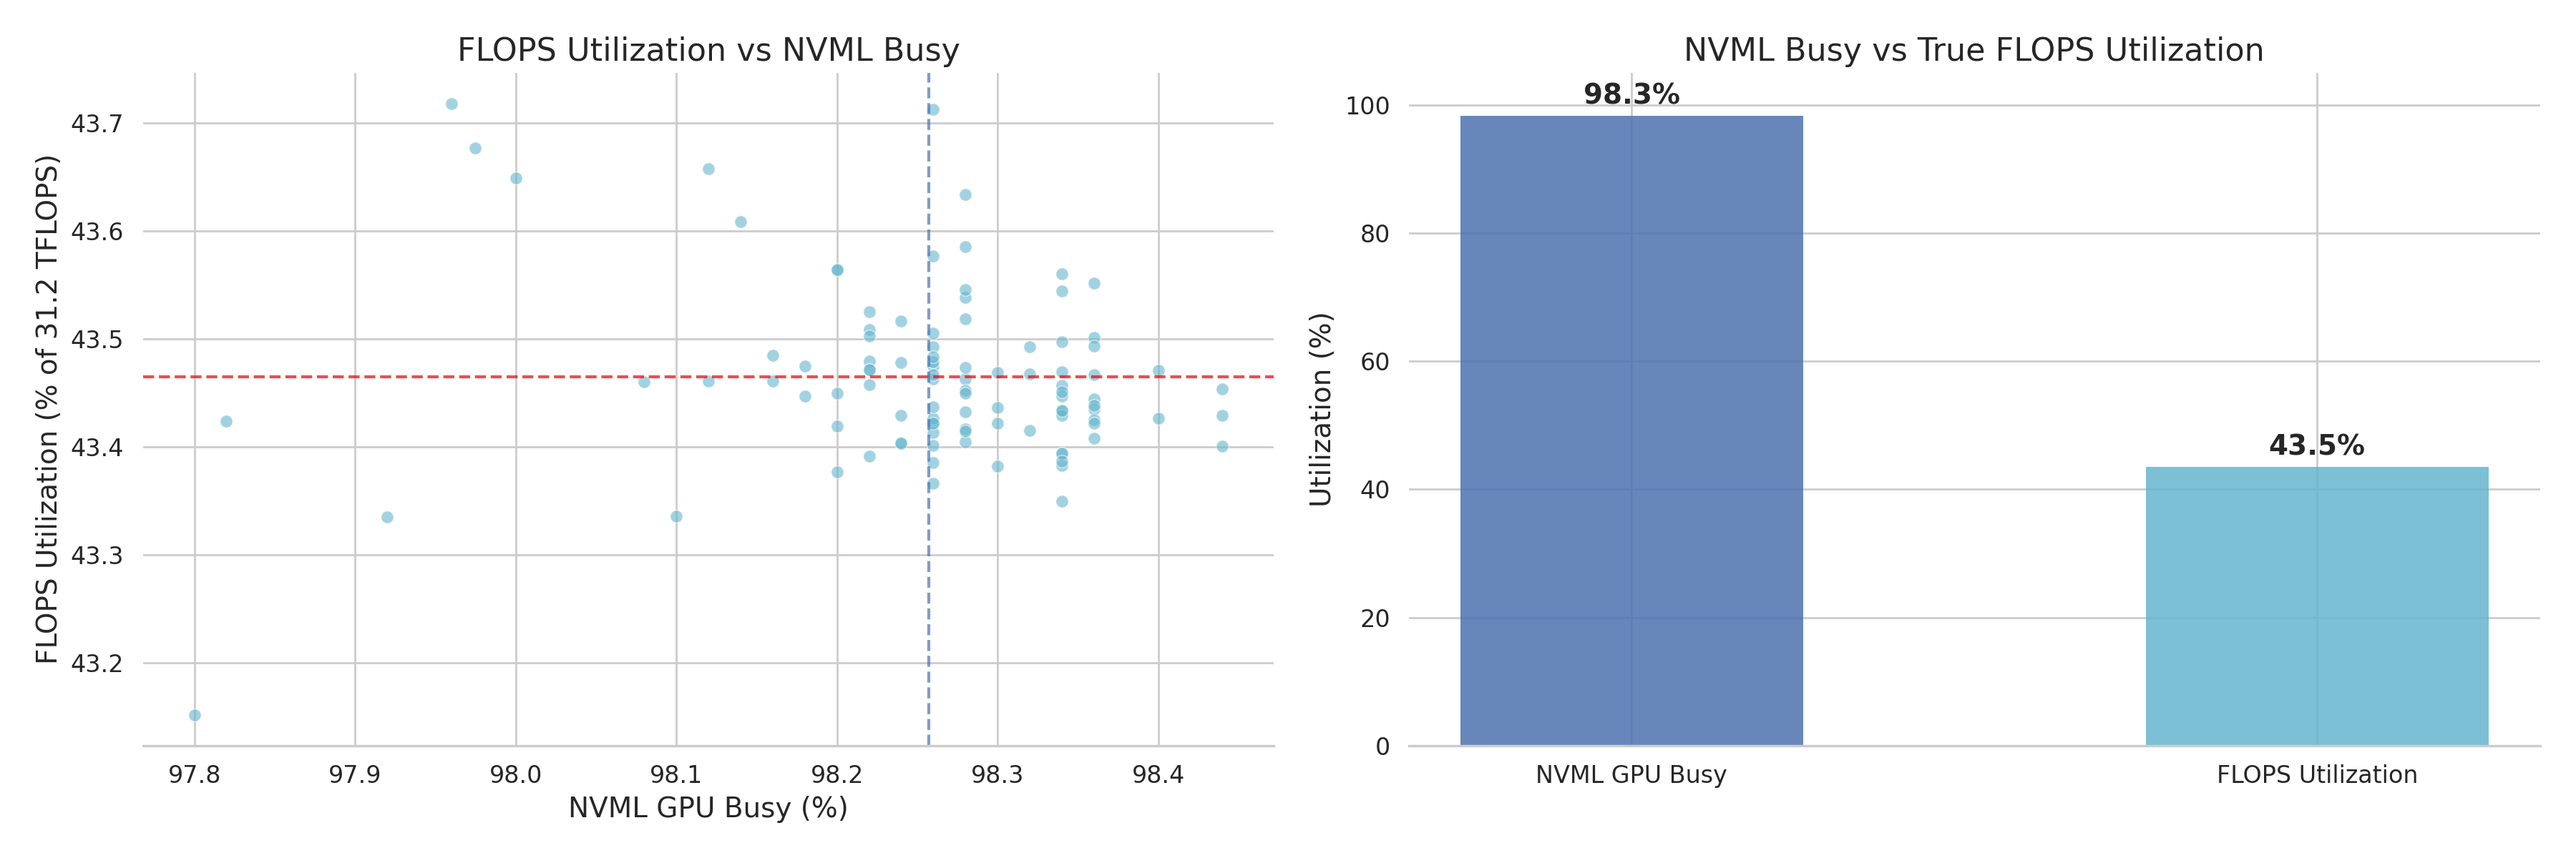
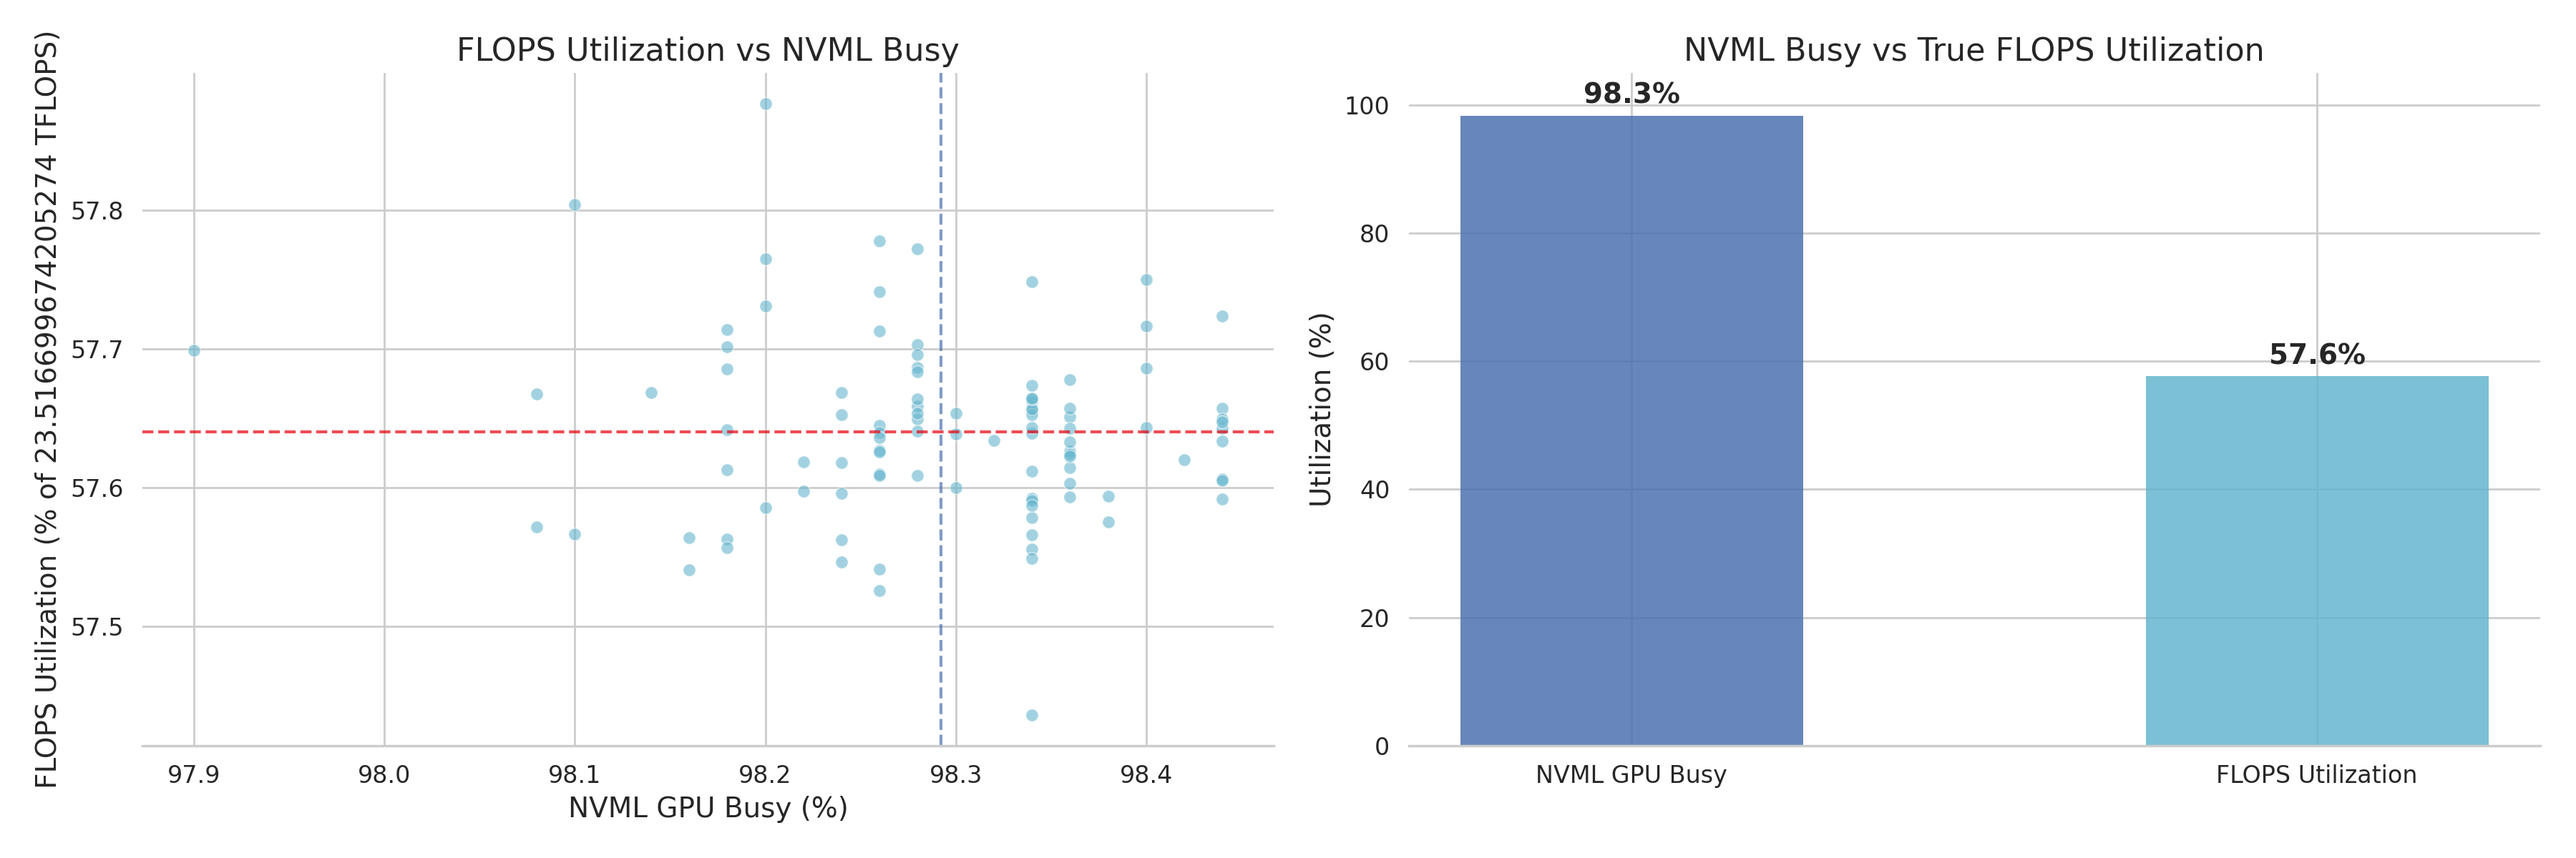
Deployed c6495fe with MkDocs version: 1.6.1

diff --git a/reports/enformer_gpu_profiling/index.html b/reports/enformer_gpu_profiling/index.html
@@ -648,6 +648,34 @@
     </span>
   </a>
   
+    <nav class="md-nav" aria-label="Peak Hardware TFLOPS">
+      <ul class="md-nav__list">
+        
+          <li class="md-nav__item">
+  <a href="#method-1-theoretical-from-cuda-device-properties" class="md-nav__link">
+    <span class="md-ellipsis">
+      
+        Method 1 — Theoretical (from CUDA device properties)
+      
+    </span>
+  </a>
+  
+</li>
+        
+          <li class="md-nav__item">
+  <a href="#method-2-empirical-gemm-benchmark" class="md-nav__link">
+    <span class="md-ellipsis">
+      
+        Method 2 — Empirical GEMM benchmark
+      
+    </span>
+  </a>
+  
+</li>
+        
+      </ul>
+    </nav>
+  
 </li>
         
           <li class="md-nav__item">
@@ -1036,6 +1064,34 @@
     </span>
   </a>
   
+    <nav class="md-nav" aria-label="Peak Hardware TFLOPS">
+      <ul class="md-nav__list">
+        
+          <li class="md-nav__item">
+  <a href="#method-1-theoretical-from-cuda-device-properties" class="md-nav__link">
+    <span class="md-ellipsis">
+      
+        Method 1 — Theoretical (from CUDA device properties)
+      
+    </span>
+  </a>
+  
+</li>
+        
+          <li class="md-nav__item">
+  <a href="#method-2-empirical-gemm-benchmark" class="md-nav__link">
+    <span class="md-ellipsis">
+      
+        Method 2 — Empirical GEMM benchmark
+      
+    </span>
+  </a>
+  
+</li>
+        
+      </ul>
+    </nav>
+  
 </li>
         
           <li class="md-nav__item">
@@ -1321,72 +1377,123 @@ matrix multiplications, convolutions, reductions).  For Enformer:</p>
 <p>This is more accurate than estimation heuristics (e.g. <code>2 × MACs</code>) because it
 counts every operator, not just matmuls.</p>
 <h3 id="peak-hardware-tflops">Peak Hardware TFLOPS</h3>
-<p>The script maintains a lookup table of datasheet peak throughput for common
-NVIDIA GPUs across three precision modes:</p>
+<p>Rather than relying on a hardcoded lookup table of datasheet values, we
+<strong>estimate peak TFLOPS programmatically</strong> using two complementary methods:</p>
+<h4 id="method-1-theoretical-from-cuda-device-properties">Method 1 — Theoretical (from CUDA device properties)</h4>
+<p>Every CUDA device exposes its SM count, compute capability, and boost clock
+via <code>torch.cuda.get_device_properties()</code>.  Combined with a small table mapping
+compute capability → FP32 cores per SM, we compute:</p>
+<div class="arithmatex">\[
+\text{Theoretical Peak} = \frac{\text{SMs} \times \text{cores/SM} \times 2_{\text{FMA}} \times \text{clock\_Hz}}{10^{12}}
+\]</div>
+<p>The <code>×2</code> factor accounts for fused multiply-add (each FMA = 2 FLOPs per clock).</p>
 <table>
 <thead>
 <tr>
-<th>GPU</th>
-<th style="text-align: center;">FP32 (TFLOPS)</th>
-<th style="text-align: center;">TF32 (TFLOPS)</th>
-<th style="text-align: center;">FP16/BF16 (TFLOPS)</th>
+<th style="text-align: center;">Compute Capability</th>
+<th>Architecture</th>
+<th style="text-align: center;">FP32 Cores / SM</th>
+<th>Example GPUs</th>
 </tr>
 </thead>
 <tbody>
 <tr>
-<td><strong>A10G</strong></td>
-<td style="text-align: center;"><strong>31.2</strong></td>
-<td style="text-align: center;">62.5</td>
-<td style="text-align: center;">125.0</td>
+<td style="text-align: center;">7.0</td>
+<td>Volta</td>
+<td style="text-align: center;">64</td>
+<td>V100</td>
 </tr>
 <tr>
-<td>A100 SXM</td>
-<td style="text-align: center;">19.5</td>
-<td style="text-align: center;">156.0</td>
-<td style="text-align: center;">312.0</td>
+<td style="text-align: center;">7.5</td>
+<td>Turing</td>
+<td style="text-align: center;">64</td>
+<td>T4, RTX 2080</td>
 </tr>
 <tr>
-<td>H100 SXM</td>
-<td style="text-align: center;">66.9</td>
-<td style="text-align: center;">494.7</td>
-<td style="text-align: center;">989.4</td>
+<td style="text-align: center;">8.0</td>
+<td>Ampere</td>
+<td style="text-align: center;">64</td>
+<td>A100</td>
 </tr>
 <tr>
-<td>V100 SXM</td>
-<td style="text-align: center;">15.7</td>
-<td style="text-align: center;">15.7</td>
-<td style="text-align: center;">125.0</td>
+<td style="text-align: center;">8.6</td>
+<td>Ampere</td>
+<td style="text-align: center;">128</td>
+<td>A10G, RTX 3090</td>
 </tr>
 <tr>
-<td>T4</td>
-<td style="text-align: center;">8.1</td>
-<td style="text-align: center;">8.1</td>
-<td style="text-align: center;">65.0</td>
+<td style="text-align: center;">8.9</td>
+<td>Ada Lovelace</td>
+<td style="text-align: center;">128</td>
+<td>L4, L40, RTX 4090</td>
 </tr>
 <tr>
-<td>L4</td>
-<td style="text-align: center;">30.3</td>
-<td style="text-align: center;">120.0</td>
-<td style="text-align: center;">242.0</td>
-</tr>
-<tr>
-<td>L40S</td>
-<td style="text-align: center;">91.6</td>
-<td style="text-align: center;">183.0</td>
-<td style="text-align: center;">366.0</td>
+<td style="text-align: center;">9.0</td>
+<td>Hopper</td>
+<td style="text-align: center;">128</td>
+<td>H100</td>
 </tr>
 </tbody>
 </table>
-<p>The GPU name is auto-detected via <code>torch.cuda.get_device_name()</code>.
-The default precision ceiling is FP32.  Override with env var <code>PRECISION=tf32</code>
-or <code>PRECISION=fp16</code> to compare against Tensor Core peaks.</p>
-<div class="admonition note">
-<p class="admonition-title">Why A100 FP32 is lower than A10G</p>
-<p>The A100's 19.5 TFLOPS FP32 applies to its <em>non-Tensor-Core</em> FP32 path.
-In practice, most workloads use TF32 Tensor Cores (156 TFLOPS) via
-<code>torch.backends.cuda.matmul.allow_tf32 = True</code>.
-The A10G does not have a separate TF32 non-TC path, so its 31.2 TFLOPS
-figure already accounts for its smaller core count.</p>
+<p>For the A10G (CC 8.6, 80 SMs, 1710 MHz boost):</p>
+<div class="arithmatex">\[
+80 \times 128 \times 2 \times 1.710 \times 10^9 / 10^{12} = 35.0 \;\text{TFLOPS}
+\]</div>
+<h4 id="method-2-empirical-gemm-benchmark">Method 2 — Empirical GEMM benchmark</h4>
+<p>The theoretical number assumes every core is busy every cycle, which is never
+achievable in practice.  We measure the <strong>realistic peak</strong> by running a large
+matrix multiplication (4096 × 4096 FP32, 100 iterations after 20 warmup) that
+saturates the GPU's arithmetic units:</p>
+<div class="highlight"><pre><span></span><code><span class="k">def</span><span class="w"> </span><span class="nf">empirical_peak_tflops</span><span class="p">(</span><span class="n">device</span><span class="o">=</span><span class="mi">0</span><span class="p">,</span> <span class="n">warmup</span><span class="o">=</span><span class="mi">20</span><span class="p">,</span> <span class="n">iters</span><span class="o">=</span><span class="mi">100</span><span class="p">):</span>
+    <span class="n">results</span> <span class="o">=</span> <span class="p">{}</span>
+    <span class="k">for</span> <span class="n">n</span> <span class="ow">in</span> <span class="p">(</span><span class="mi">2048</span><span class="p">,</span> <span class="mi">4096</span><span class="p">,</span> <span class="mi">8192</span><span class="p">):</span>
+        <span class="n">a</span> <span class="o">=</span> <span class="n">torch</span><span class="o">.</span><span class="n">randn</span><span class="p">(</span><span class="n">n</span><span class="p">,</span> <span class="n">n</span><span class="p">,</span> <span class="n">device</span><span class="o">=</span><span class="sa">f</span><span class="s2">&quot;cuda:</span><span class="si">{</span><span class="n">device</span><span class="si">}</span><span class="s2">&quot;</span><span class="p">)</span>
+        <span class="n">b</span> <span class="o">=</span> <span class="n">torch</span><span class="o">.</span><span class="n">randn</span><span class="p">(</span><span class="n">n</span><span class="p">,</span> <span class="n">n</span><span class="p">,</span> <span class="n">device</span><span class="o">=</span><span class="sa">f</span><span class="s2">&quot;cuda:</span><span class="si">{</span><span class="n">device</span><span class="si">}</span><span class="s2">&quot;</span><span class="p">)</span>
+        <span class="k">for</span> <span class="n">label</span><span class="p">,</span> <span class="n">tf32</span> <span class="ow">in</span> <span class="p">((</span><span class="s2">&quot;fp32&quot;</span><span class="p">,</span> <span class="kc">False</span><span class="p">),</span> <span class="p">(</span><span class="s2">&quot;tf32&quot;</span><span class="p">,</span> <span class="kc">True</span><span class="p">)):</span>
+            <span class="n">torch</span><span class="o">.</span><span class="n">backends</span><span class="o">.</span><span class="n">cuda</span><span class="o">.</span><span class="n">matmul</span><span class="o">.</span><span class="n">allow_tf32</span> <span class="o">=</span> <span class="n">tf32</span>
+            <span class="c1"># ... warmup + timed loop ...</span>
+            <span class="n">tflops</span> <span class="o">=</span> <span class="p">(</span><span class="mi">2</span> <span class="o">*</span> <span class="n">n</span><span class="o">**</span><span class="mi">3</span> <span class="o">*</span> <span class="n">iters</span> <span class="o">/</span> <span class="n">elapsed</span><span class="p">)</span> <span class="o">/</span> <span class="mf">1e12</span>
+            <span class="n">results</span><span class="p">[</span><span class="n">label</span><span class="p">]</span> <span class="o">=</span> <span class="nb">max</span><span class="p">(</span><span class="n">results</span><span class="o">.</span><span class="n">get</span><span class="p">(</span><span class="n">label</span><span class="p">,</span> <span class="mi">0</span><span class="p">),</span> <span class="n">tflops</span><span class="p">)</span>
+    <span class="k">return</span> <span class="n">results</span>   <span class="c1"># {&quot;fp32&quot;: 23.5, &quot;tf32&quot;: 34.1}</span>
+</code></pre></div>
+<p>The function sweeps matrix sizes (2048, 4096, 8192) and tests with TF32
+tensor cores both enabled and disabled, returning both peaks.</p>
+<div class="admonition info">
+<p class="admonition-title">Results on A10G</p>
+<table>
+<thead>
+<tr>
+<th>Method</th>
+<th style="text-align: center;">TFLOPS</th>
+</tr>
+</thead>
+<tbody>
+<tr>
+<td>Theoretical (CUDA props)</td>
+<td style="text-align: center;">35.0</td>
+</tr>
+<tr>
+<td>Empirical FP32 (CUDA cores, TF32=off)</td>
+<td style="text-align: center;">23.5</td>
+</tr>
+<tr>
+<td>Empirical TF32 (Tensor Cores, TF32=on)</td>
+<td style="text-align: center;">34.1</td>
+</tr>
+<tr>
+<td>NVIDIA datasheet "FP32"</td>
+<td style="text-align: center;">31.2</td>
+</tr>
+</tbody>
+</table>
+<p>NVIDIA's datasheet "31.2 TFLOPS FP32" actually uses <strong>TF32 Tensor
+Cores</strong> — the inputs and outputs are float32, but the internal multiply
+accumulates at TF32 precision (10-bit mantissa).  With
+<code>torch.backends.cuda.matmul.allow_tf32 = False</code> (pure FP32 CUDA cores),
+throughput drops to ~23.5 TFLOPS.</p>
+<p>Since Enformer runs with <code>allow_tf32 = False</code> (the default in our
+script), we use the <strong>empirical FP32 peak (23.5 TFLOPS)</strong> as the
+FLOPS utilization ceiling — giving a more honest efficiency number.</p>
 </div>
 <h3 id="flops-utilization">FLOPS Utilization</h3>
 <p>For each sequence, we compute:</p>
@@ -1445,36 +1552,40 @@ per-run values).  This design:</p>
 </thead>
 <tbody>
 <tr>
-<td><strong>FLOPS Utilization</strong></td>
-<td>43.5% of 31.2 TFLOPS peak (range 43.2 – 43.7%)</td>
-</tr>
-<tr>
 <td><strong>Achieved TFLOPS</strong></td>
 <td>13.56 TFLOPS</td>
 </tr>
 <tr>
+<td><strong>FLOPS Util (vs empirical FP32 peak)</strong></td>
+<td>57.6% of 23.5 TFLOPS (min 57.4%, max 57.9%)</td>
+</tr>
+<tr>
+<td><strong>FLOPS Util (vs datasheet/TF32 peak)</strong></td>
+<td>~43.5% of 31.2 TFLOPS</td>
+</tr>
+<tr>
 <td><strong>NVML GPU Busy</strong></td>
-<td>98.3% ± 0.1%</td>
+<td>98.3% ± 0.1% (min 98%, max 98%)</td>
 </tr>
 <tr>
 <td><strong>Peak Memory</strong></td>
-<td>6,800 MB</td>
+<td>6,800 MB ± 0 MB</td>
 </tr>
 <tr>
 <td><strong>Power Draw</strong></td>
-<td>241.1 W ± 2.6 W (max 244 W)</td>
+<td>240.6 W ± 1.5 W (max 243 W)</td>
 </tr>
 <tr>
 <td><strong>Temperature</strong></td>
-<td>48.8°C ± 2.8°C (max 50°C)</td>
+<td>49.0°C ± 1.6°C (max 50°C)</td>
 </tr>
 <tr>
 <td><strong>Energy</strong></td>
-<td>58.55 J ± 0.69 J per inference</td>
+<td>58.44 J ± 0.36 J per inference</td>
 </tr>
 <tr>
 <td><strong>Inference Time</strong></td>
-<td>0.243 s ± 0.0004 s per sequence</td>
+<td>0.243 s ± 0.000 s per sequence</td>
 </tr>
 <tr>
 <td><strong>Repeat σ (time)</strong></td>
@@ -1486,11 +1597,17 @@ per-run values).  This design:</p>
 </tr>
 </tbody>
 </table>
-<p><strong>Key insight:</strong> While NVML reports 98% GPU busy, the actual FLOPS utilization
-is only <strong>43.5%</strong> — meaning more than half the chip's FP32 compute capacity
-sits idle during each forward pass.  This gap is typical for Transformer models
-with attention memory-access patterns that are bandwidth- rather than
-compute-bound.</p>
+<p><strong>Key insight:</strong> The achieved throughput is a constant <strong>13.56 TFLOPS</strong>.
+Whether that looks like "43.5% efficient" or "57.6% efficient" depends entirely
+on which ceiling you compare against:</p>
+<ul>
+<li><strong>vs NVIDIA datasheet (31.2 TFLOPS):</strong> 43.5% — but this ceiling uses TF32
+  Tensor Cores internally, which Enformer doesn't leverage.</li>
+<li><strong>vs empirical FP32 CUDA-core peak (23.5 TFLOPS):</strong> 57.6% — a fairer
+  comparison when the model runs in pure FP32.</li>
+</ul>
+<p>Either way, NVML reports 98% "busy" — illustrating that kernel occupancy and
+compute efficiency are fundamentally different metrics.</p>
 <hr />
 <h3 id="gpu-dashboard">GPU Dashboard</h3>
 <p>The 2×3 dashboard provides an at-a-glance view of all six key metrics across
@@ -1499,9 +1616,10 @@ all 100 sequences:</p>
 <hr />
 <h3 id="flops-utilization-per-sequence">FLOPS Utilization per Sequence</h3>
 <p><img alt="FLOPS Utilization" src="../img/flops_utilization_per_seq.png" /></p>
-<p>FLOPS utilization is remarkably stable at ~43.5%, with a spread of only 0.5
-percentage points across 100 sequences.  This confirms that Enformer's FP32
-forward pass consistently achieves about 13.6 TFLOPS on the A10G.</p>
+<p>FLOPS utilization is remarkably stable at 57.6%, with a spread of only 0.5
+percentage points across 100 sequences (min 57.4%, max 57.9%).  This confirms
+that Enformer's FP32 forward pass consistently achieves about 13.56 TFLOPS on
+the A10G.</p>
 <hr />
 <h3 id="nvml-gpu-busy-per-sequence">NVML GPU Busy per Sequence</h3>
 <p><img alt="GPU Busy" src="../img/gpu_busy_per_seq.png" /></p>
@@ -1512,8 +1630,8 @@ between workloads.</p>
 <h3 id="flops-utilization-vs-nvml-busy">FLOPS Utilization vs NVML Busy</h3>
 <p><img alt="FLOPS vs NVML" src="../img/flops_vs_nvml.png" /></p>
 <p>The scatter plot (left) and comparison bars (right) make the discrepancy
-concrete:  NVML says "98% busy" while true compute efficiency is only "43.5%
-of peak FP32."</p>
+concrete:  NVML says "98% busy" while true compute efficiency is only 57.6%
+of the empirical FP32 peak (or 43.5% of the datasheet number).</p>
 <hr />
 <h3 id="peak-memory-per-sequence">Peak Memory per Sequence</h3>
 <p><img alt="Memory" src="../img/gpu_memory_per_seq.png" /></p>
@@ -1522,13 +1640,13 @@ first forward pass and reuses the same memory pool thereafter.</p>
 <hr />
 <h3 id="power-draw-per-sequence">Power Draw per Sequence</h3>
 <p><img alt="Power" src="../img/gpu_power_per_seq.png" /></p>
-<p>Power draw ramps to ~241 W (the A10G TDP is 300 W) with a slight upward trend
-as the GPU die temperature increases.</p>
+<p>Power draw ramps to ~241 W (the A10G TDP is 300 W, max observed 243 W) with a
+slight upward trend as the GPU die temperature increases.</p>
 <hr />
 <h3 id="temperature-per-sequence">Temperature per Sequence</h3>
 <p><img alt="Temperature" src="../img/gpu_temperature_per_seq.png" /></p>
-<p>Temperature rises from ~44°C to ~50°C across the 100 sequences as the thermal
-load accumulates, then plateaus.</p>
+<p>Temperature rises from ~47°C to ~50°C across the 100 sequences as the thermal
+load accumulates, then plateaus (mean 49.0°C ± 1.6°C).</p>
 <hr />
 <h3 id="inference-time-distribution">Inference Time Distribution</h3>
 <p><img alt="Inference Time" src="../img/inference_time.png" /></p>
